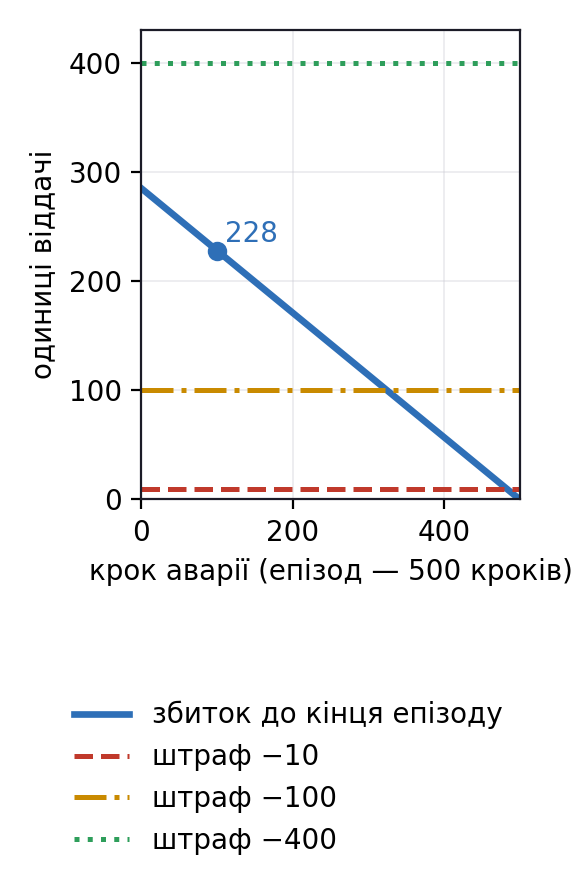
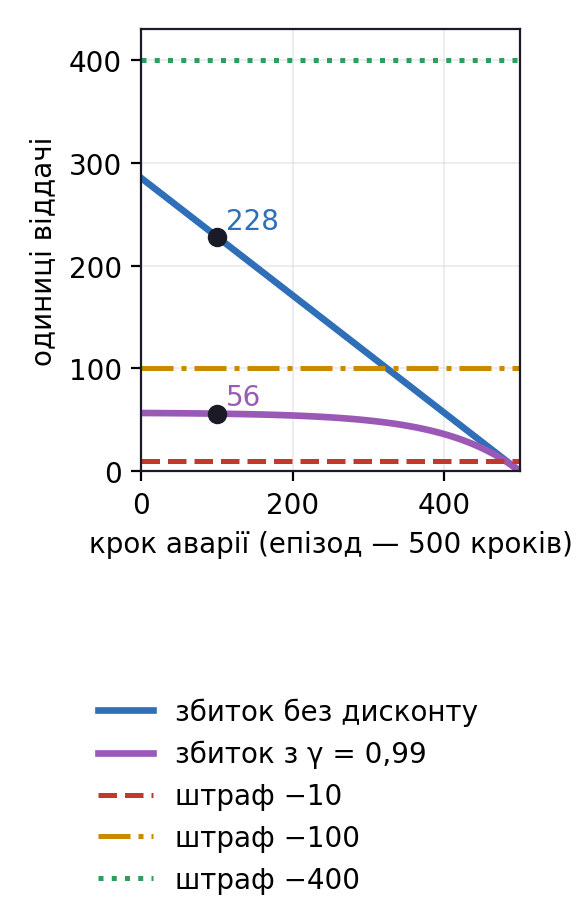
Лекція 07, другий круг: збиток за аварію з дисконтом, значення доданків у таблиці, обмеження симулятора, що крутити першим

diff --git a/lectures/07.md b/lectures/07.md
@@ -61,6 +61,8 @@ outline: [2, 3]
 | частота політики | 100 Гц у симуляторі, на борту обчислення мережі ≈ 0,8 мс |
 | алгоритм | PPO |
 
+Маси в лекції: 27 г — апарат без додаткових плат (текст Molchanov і модель CF2X у симуляторі), 29 г — паспорт Crazyflie 2.1, 33 г — апарат із платами й маркерами (табл. II Molchanov), 0,028 кг — номінал симулятора в табл. I. Той самий симулятор і постановку для рою взяли Batra та ін. (2021).
+
 Це **перший масштаб** лекції: справжній 3D-апарат. **Другий** — одновимірна модель висіння з модуля 05 (27 г, 50 Гц, епізод 8 с); на ній зроблено власні прогони. Окремо в частині 4 є **умовний приклад** підбору ваг винагороди — розрахунок, а не прогін. Щоразу буде сказано, про що йдеться.
 
 ## Частина 1 · Вибір алгоритму
@@ -134,7 +136,7 @@ $$\mathcal{H}(\pi) = -\sum_a \pi(a)\ln \pi(a)$$
 </Figure>
 
 
-PPO використовує кожен зібраний крок лише в одному оновленні й викидає: градієнт політики коректний на даних поточної політики. SAC зберігає до мільйона переходів і вчиться на них багаторазово, тож потребує менше взаємодії, але кожен крок навчання дорожчий.
+PPO використовує зібрані кроки лише в одному циклі оновлення — 10 проходів — і викидає їх: градієнт політики коректний на даних поточної політики. SAC зберігає до мільйона переходів і вчиться на них багаторазово, тож потребує менше взаємодії, але кожен крок навчання дорожчий.
 
 Для дрона в швидкому симуляторі досвід дешевий, і стабільність PPO за типових налаштувань важить більше за економію даних — тому PPO обрали і Molchanov, і Batra. SAC доречніший, коли кожна секунда польоту дорога.
 
@@ -150,11 +152,11 @@ PPO (*Proximal Policy Optimization*, [Schulman та ін., arXiv:1707.06347](htt
 </Figure>
 
 
-Числа на схемі — значення Stable-Baselines3 за замовчуванням. Далі — по одній формулі на кожен крок, з розрахунком на трьох справжніх кроках прогону PPO з модуля 05 (одновимірна модель висіння).
+Числа на схемі — значення Stable-Baselines3 за замовчуванням. **Порція** — 2048 кроків, зібраних між двома оновленнями. Далі — по одній формулі на кожен крок, з розрахунком на трьох кроках реального прогону PPO з модуля 05 (одновимірна модель висіння).
 
 ### $N$-крокова віддача: скільки кроків брати з досвіду
 
-Ціль для оцінки цінності стану $s_t$ бере $N$ справжніх винагород і далі покладається на критика:
+Ціль для оцінки цінності стану $s_t$ бере $N$ отриманих винагород і далі покладається на критика:
 
 $$G^{(N)}_t = \sum_{\tau=0}^{N-1}\gamma^\tau r_{t+\tau} + \gamma^N V(s_{t+N})$$
 
@@ -165,15 +167,15 @@ $$G^{(N)}_t = \sum_{\tau=0}^{N-1}\gamma^\tau r_{t+\tau} + \gamma^N V(s_{t+N})$$
 | $\gamma$ | дисконт, 0,99 |
 
 ::: info Розрахунок: три кроки прогону PPO
-Дано (модуль 05, порція 4 навчання): $r_0 = 0{,}0639$, $r_1 = 0{,}0654$, $r_2 = 0{,}0202$; $V(s_1) = 0{,}0430$, $V(s_2) = 0{,}0465$, $V(s_3) = 0{,}0299$.
+Дано (модуль 05, порція 4): $r_0 = 0{,}06387$, $r_1 = 0{,}06542$, $r_2 = 0{,}02018$; $V(s_1) = 0{,}04303$, $V(s_2) = 0{,}04653$, $V(s_3) = 0{,}02995$.
 
 | **$N$** | **Підстановка** | **Ціль** |
 |---|---|---|
-| 1 | $0{,}0639 + 0{,}99 \cdot 0{,}0430$ | 0,1065 |
-| 2 | $0{,}0639 + 0{,}99 \cdot 0{,}0654 + 0{,}99^2 \cdot 0{,}0465$ | 0,1742 |
-| 3 | ще $+\,0{,}99^2 \cdot 0{,}0202$, а критик — на $s_3$ | 0,1775 |
+| 1 | $0{,}06387 + 0{,}99 \cdot 0{,}04303$ | 0,1065 |
+| 2 | $0{,}06387 + 0{,}99 \cdot 0{,}06542 + 0{,}99^2 \cdot 0{,}04653$ | 0,1742 |
+| 3 | ще $+\,0{,}99^2 \cdot 0{,}02018$, а критик — на $s_3$ | 0,1775 |
 
-Що більше $N$, то більше в цілі справжніх винагород і менше — оцінки критика.
+Що більше $N$, то більше в цілі отриманих винагород і менше — оцінки критика.
 :::
 
 Мале $N$ дає малу дисперсію, але переносить у ціль помилку критика (зсув); $N$, що дорівнює всьому епізоду (Монте-Карло), — навпаки.
@@ -189,10 +191,14 @@ $$\hat A_t = \sum_{l \ge 0} (\gamma\lambda)^l\, \delta_{t+l}$$
 | **Позначення** | **Що це** |
 |---|---|
 | $\delta_t$ | помилка часової різниці: наскільки крок виявився кращим за прогноз критика |
-| $\lambda$ | ручка між однокроковою оцінкою ($\lambda = 0$) і Монте-Карло ($\lambda = 1$) |
+| $\lambda$ | параметр, що плавно зсуває оцінку від однокрокової ($\lambda = 0$) до Монте-Карло ($\lambda = 1$) |
 
 ::: info Розрахунок: перевага першого кроку за трьома δ
-Ті самі кроки: $\delta_0 = 0{,}0552$, $\delta_1 = 0{,}0684$, $\delta_2 = 0{,}0033$.
+Ті самі кроки й $V(s_0) = 0{,}05122$:
+
+$$\delta_0 = 0{,}06387 + 0{,}99 \cdot 0{,}04303 - 0{,}05122 = 0{,}05525$$
+
+так само $\delta_1 = 0{,}06845$, $\delta_2 = 0{,}00330$.
 
 | **$\lambda$** | **Ваги $1,\ \gamma\lambda,\ (\gamma\lambda)^2$** | **$\hat A_0$ за 3 кроки** |
 |---|---|---|
@@ -200,7 +206,7 @@ $$\hat A_t = \sum_{l \ge 0} (\gamma\lambda)^l\, \delta_{t+l}$$
 | 0,95 | 1, 0,9405, 0,8845 | 0,1225 |
 | 1 | 1, 0,99, 0,9801 | 0,1262 |
 
-У Stable-Baselines3 сума йде до кінця порції з 2048 кроків, тож справжня $\hat A_0$ того прогону — 0,79: внески далеких кроків накопичуються.
+У Stable-Baselines3 сума йде до кінця епізоду, а на межі порції обривається й замість решти бере оцінку критика. Тож фактична $\hat A_0$ того прогону — 0,79: внески далеких кроків накопичуються.
 :::
 
 У Stable-Baselines3 це `gae_lambda`, за замовчуванням 0,95.
@@ -234,7 +240,7 @@ $$\rho_t = \frac{\pi(a_t\mid s_t)}{\pi_{\text{old}}(a_t\mid s_t)}$$
 | 0,7, −2 | −1,4 | $0{,}8 \cdot (-2) = -1{,}6$ | −1,6 |
 | 1,1, +2 | +2,2 | +2,2 | +2,2 |
 
-Усередині коридору ціль звичайна; за ним подальший відхід від старої політики нічого не додає, а погіршення рахується повністю.
+Усередині коридору ціль звичайна; за ним подальший відхід від старої політики нічого не додає, а погіршення враховується повністю.
 :::
 
 Віджет обрізання — у [модулі 05](/lectures/05).
@@ -257,7 +263,7 @@ def target(n):
 
 print("ціль для N = 1, 2, 3:", "  ".join(f"{target(n):.4f}" for n in (1, 2, 3)))
 delta = r + GAMMA * V[1:] - V[:3]  # δ_t = r_t + γV(s_{t+1}) − V(s_t)
-print("δ₀, δ₁, δ₂:", "  ".join(f"{x:.4f}" for x in delta))
+print("δ₀, δ₁, δ₂:", "  ".join(f"{x:.5f}" for x in delta))
 gae = [sum((GAMMA * lam) ** k * delta[k] for k in range(3)) for lam in (0, 0.95, 1)]
 print("перевага за 3 кроки, λ = 0 / 0.95 / 1:", "  ".join(f"{x:.4f}" for x in gae))
 print(f"перевага першого кроку в самому прогоні: {d['k4_adv'][0]:.2f}")
@@ -270,7 +276,7 @@ for rho, adv in ((1.3, 2.0), (0.7, -2.0), (1.1, 2.0)):
 
 ```text:no-line-numbers
 ціль для N = 1, 2, 3: 0.1065  0.1742  0.1775
-δ₀, δ₁, δ₂: 0.0552  0.0684  0.0033
+δ₀, δ₁, δ₂: 0.05525  0.06845  0.00330
 перевага за 3 кроки, λ = 0 / 0.95 / 1: 0.0552  0.1225  0.1262
 перевага першого кроку в самому прогоні: 0.79
 ρ = 1.3, A = +2.0: без обрізання +2.6, ціль +2.4
@@ -305,7 +311,7 @@ $$\mathcal{H} = \tfrac12 \ln\!\big(2\pi e\,\sigma^2\big)$$
 
 ### Пастка стандартизації винагород
 
-Винагороди часто стандартизують — віднімають середнє й ділять на відхилення, щоб критику було легше. Але це може змінити саму задачу.
+Винагороди часто стандартизують — віднімають середнє й ділять на відхилення, щоб звести масштаб до одиниці. Але це може змінити саму задачу.
 
 Дві дії: «завершити» дає −1 і кінець епізоду; «жити далі» дає −0,1, і епізод закінчується з імовірністю 1 %, тобто в середньому через 100 кроків. Без стандартизації краще завершити: −1 проти −10.
 
@@ -321,6 +327,8 @@ $$\mathcal{H} = \tfrac12 \ln\!\big(2\pi e\,\sigma^2\big)$$
 :::
 
 Для дрона це означає: якщо винагорода складена лише зі штрафів, стандартизація може перетворити задачу «долетіти швидше» на «літати довше».
+
+У Stable-Baselines3 за замовчуванням стандартизують не винагороду, а перевагу в кожному міні-батчі (`normalize_advantage=True`), а обгортка `VecNormalize` ділить винагороду на відхилення без віднімання середнього. Пастка стосується саме нормалізації з відніманням середнього — її легко додати власним кодом.
 
 
 <CodeFold title="Ентропія двох дій і гаусової політики, стандартизація винагород" :lines="18" sec="0.1" check>
@@ -370,7 +378,7 @@ print(f"100 кроків «жити далі»: було {100 * -0.1:+.1f}, ст
 |---|---|---|---|
 | темп навчання | `learning_rate` | $3\cdot10^{-4}$ | крок оптимізатора |
 | кроків на збір | `n_steps` | 2048 | скільки досвіду між оновленнями |
-| міні-батч | `batch_size` | 64 | шматок даних на один крок градієнта |
+| міні-батч | `batch_size` | 64 | скільки кроків іде в один крок градієнта |
 | проходів | `n_epochs` | 10 | скільки разів перевикористати ті самі дані |
 | дисконт | `gamma` | 0,99 | горизонт планування |
 | GAE | `gae_lambda` | 0,95 | зсув проти дисперсії переваги |
@@ -403,11 +411,19 @@ model.learn(total_timesteps=1_000_000)
 </CodeFold>
 
 
-Головне правило порівняння: два алгоритми порівнюють лише за однакового бюджету на підбір гіперпараметрів.
+Що крутити першим для дрона:
+
+| **Симптом** | **Що змінити** |
+|---|---|
+| політика рано перестала досліджувати | `ent_coef` з 0 до 0,01 |
+| віддача стрибає або падає після оновлень | зменшити `learning_rate` |
+| епізод довший за порцію | збільшити `n_steps`: порція має вміщати кілька епізодів (у моделі висіння 400 кроків — п'ять на порцію) |
+
+Бюджет `total_timesteps` задають із запасом і стежать за кривою: модель висіння модуля 05 вийшла на плато після 102 тис. кроків із 307 200, а Molchanov та ін. навчали 3000 ітерацій по 40 траєкторій по 7 с, тобто $40 \cdot 7 \cdot 100 \cdot 3000 = 84$ млн кроків при 100 Гц (§VI). Два алгоритми порівнюють лише за однакового бюджету на підбір гіперпараметрів.
 
 ## Частина 3 · Спостереження і дія
 
-Перший масштаб — 3D-апарат. Molchanov та ін. подають на вхід політики 18 чисел (§V-B, «18-dimensional vector»); Batra та ін. (2021, §3.1) для кожного дрона рою використовують той самий кортеж $(p, v, R, \omega)$ і додають сусідів.
+Перший масштаб — 3D-апарат. Molchanov та ін. подають на вхід політики 18 чисел (§V-B, «18-dimensional vector»); Batra та ін. (2021, §3.1) для кожного дрона рою беруть ті самі чотири блоки й додають сусідів.
 
 
 <Figure src="/figs/own/mod07-observation.png" msrc="/figs/own/mod07-observation-m.png" alt="Що бачить дрон: стрілка до цілі — 3 числа положення відносно цілі, стрілка швидкості — 3 числа, осі корпусу — 9 чисел матриці повороту, дуга обертання — 3 числа кутової швидкості; разом 18.">
@@ -440,9 +456,9 @@ model.learn(total_timesteps=1_000_000)
 |---|---|---|
 | IMU на основній платі | кутові швидкості й прискорення | шум; нуль гіроскопа дрейфує |
 | [Flow deck v2](https://www.bitcraze.io/products/flow-deck-v2/) | відстань до підлоги й оптичний потік | далекомір до 4 м, підлога має бути з текстурою |
-| [Loco deck](https://www.bitcraze.io/documentation/hardware/loco_deck/loco_deck-datasheet.pdf) | відстані до радіомаяків UWB | ±10 см до 10 м |
+| [Loco deck](https://www.bitcraze.io/documentation/hardware/loco_deck/loco_deck-datasheet.pdf) | відстані до радіомаяків UWB (надширокосмугове радіо) | ±10 см до 10 м |
 
-Тому шум і затримка оцінки — частина задачі, яку політика мусить витримати. У Molchanov та ін. позицію давала система захоплення руху на 100 Гц (§VI).
+У Molchanov та ін. положення давала система захоплення руху на 100 Гц (§VI). Без неї той самий вектор дають бортові плати й фільтр Калмана — це постановка курсу, і тоді шум і затримка оцінки стають частиною задачі, яку політика мусить витримати.
 
 ### Три рівні керування
 
@@ -458,11 +474,11 @@ model.learn(total_timesteps=1_000_000)
 
 | **Рівень** | **Що видає політика** | **Хто виконує далі** | **Приклад** |
 |---|---|---|---|
-| SRT | 4 тяги моторів | ніхто: політика сама стабілізує апарат | Molchanov 2019, Batra 2021 |
-| CTBR | колективна тяга й 3 кутові швидкості | бортовий контур кутових швидкостей | Kaufmann 2022 |
-| LV | швидкість і швидкість рискання | повний стек керування | Kaufmann 2022 |
+| SRT (*single-rotor thrust*) | 4 тяги моторів | ніхто: політика сама стабілізує апарат | Molchanov 2019, Batra 2021 |
+| CTBR (*collective thrust and body rates*) | колективна тяга й 3 кутові швидкості | бортовий контур кутових швидкостей | Kaufmann 2022 |
+| LV (*linear velocity*) | швидкість і швидкість рискання | повний стек керування | Kaufmann 2022 |
 
-У Kaufmann та ін. CTBR найкраще переносився на реальний апарат; політику SRT на їхньому апараті запустити не вдалося через затримку системи близько 60 мс (розд. V-B). На Crazyflie Molchanov та ін. SRT працював: мережа рахувалася на борту за 0,8 мс. Вибір рівня залежить від затримок конкретного апарата.
+У Kaufmann та ін. CTBR найкраще переносився на реальний апарат; політику SRT на їхньому апараті запустити не вдалося через затримку всієї системи близько 60 мс (розд. V-B). У Molchanov та ін. SRT на Crazyflie працював; затримки свого контуру стаття не називає. Тож вирішує затримка всього контуру керування апарата, а не лише час обчислення мережі.
 
 ### Середовище Gymnasium для однієї задачі
 
@@ -524,32 +540,32 @@ $$r_t = 1 - \sum_{i=1}^{n} w_i\, f_i(s_t, a_t)$$
 | зусилля | 0,4 | 0,10 | 0,25 |
 | ривок | 0,2 | 0,05 | 0,25 |
 
-Вага — бажаний внесок, поділений на масштаб: позиція важить найбільше, хоча її вага не найбільша.
+Вага — бажаний внесок, поділений на масштаб: малий масштаб рискання (0,5 рад) дає йому вагу 0,40 — майже як у позиції.
 :::
 
-### Два режими польоту
+### Два стани: біля цілі й на старті
 
 Перевіряють ваги на двох станах: апарат майже в цілі й апарат щойно стартував далеко від неї.
 
 
-<Figure src="/figs/own/mod07-regimes.png" msrc="/figs/own/mod07-regimes-m.png" alt="Штраф кожного доданка винагороди в двох режимах. Майже в цілі всі штрафи малі, і винагорода +0,83; щойно після старту позиція дає штраф 1,0, швидкість 0,3, і винагорода −0,57.">
+<Figure src="/figs/own/mod07-regimes.png" msrc="/figs/own/mod07-regimes-m.png" alt="Штраф кожного доданка винагороди у двох станах. Майже в цілі всі штрафи малі, і винагорода +0,83; щойно після старту позиція дає штраф 1,0, швидкість 0,3, і винагорода −0,57.">
 
-Штраф кожного доданка винагороди в двох режимах. Майже в цілі всі штрафи малі, і винагорода +0,83; щойно після старту позиція дає штраф 1,0, швидкість 0,3, і винагорода −0,57.
+Штраф кожного доданка винагороди у двох станах. Майже в цілі всі штрафи малі, і винагорода +0,83; щойно після старту позиція дає штраф 1,0, швидкість 0,3, і винагорода −0,57.
 
 </Figure>
 
 
-::: info Розрахунок: винагорода в двох режимах
-Штраф доданка — вага × значення.
+::: info Розрахунок: винагорода в двох станах
+Штраф доданка — вага × значення. Значення — стан апарата в цю мить, а не масштаб калібрування.
 
-| **Доданок** | **Вага** | **Майже в цілі** | **Щойно стартував** |
-|---|---|---|---|
-| позиція | 0,50 | $0{,}50 \cdot 0{,}20 = 0{,}10$ | $0{,}50 \cdot 2{,}0 = 1{,}00$ |
-| швидкість | 0,30 | 0,03 | 0,30 |
-| рискання | 0,40 | 0,02 | 0,12 |
-| зусилля | 0,25 | 0,0125 | 0,10 |
-| ривок | 0,25 | 0,005 | 0,05 |
-| $r = 1 - \sum$ | | **+0,83** | **−0,57** |
+| **Доданок** | **Вага** | **Біля цілі** | **Штраф** | **На старті** | **Штраф** |
+|---|---|---|---|---|---|
+| позиція | 0,50 | 0,20 | 0,10 | 2,0 | 1,00 |
+| швидкість | 0,30 | 0,10 | 0,03 | 1,0 | 0,30 |
+| рискання | 0,40 | 0,05 | 0,02 | 0,3 | 0,12 |
+| зусилля | 0,25 | 0,05 | 0,0125 | 0,4 | 0,10 |
+| ривок | 0,25 | 0,02 | 0,005 | 0,2 | 0,05 |
+| $r = 1 - \sum$ | | | **+0,83** | | **−0,57** |
 
 Різниця 1,40 на крок — сигнал, який має бути помітним на тлі шуму між епізодами.
 :::
@@ -558,30 +574,32 @@ $$r_t = 1 - \sum_{i=1}^{n} w_i\, f_i(s_t, a_t)$$
 
 ### Штраф за аварію проти збитку
 
-Поки політика літає погано, кожен крок коштує −0,57. Якщо апарат розбився на кроці 100, решта епізоду не настане — і збиток, що набіг би до кінця, агент «зекономить».
+Поки політика літає погано, кожен крок коштує −0,57. Якщо апарат розбився на кроці 100, решта епізоду не настане — і збиток, що набіг би до кінця, агент «зекономить». Агент рахує цей збиток із тим самим дисконтом $\gamma = 0{,}99$, з яким навчається.
 
 
-<Figure src="/figs/own/mod07-crash.png" msrc="/figs/own/mod07-crash-m.png" alt="Збиток, який погана політика накопичить до кінця епізоду, спадає від 285 на першому кроці до нуля на кроці 500; при аварії на кроці 100 він дорівнює 228. Горизонтальні лінії штрафів −10 і −100 лежать нижче, −400 — вище.">
+<Figure src="/figs/own/mod07-crash.png" msrc="/figs/own/mod07-crash-m.png" alt="Збиток, який погана політика накопичить до кінця епізоду. Без дисконту він спадає від 285 до нуля й на кроці 100 дорівнює 228; з γ = 0,99 майже сталий — 56 на кроці 100. Штраф −10 нижчий за обидві криві, −100 — лише за недисконтовану, −400 — вищий за обидві.">
 
-Збиток, який погана політика накопичить до кінця епізоду, спадає від 285 на першому кроці до нуля на кроці 500; при аварії на кроці 100 він дорівнює 228. Горизонтальні лінії штрафів −10 і −100 лежать нижче, −400 — вище.
+Збиток, який погана політика накопичить до кінця епізоду. Без дисконту він спадає від 285 до нуля й на кроці 100 дорівнює 228; з γ = 0,99 майже сталий — 56 на кроці 100. Штраф −10 нижчий за обидві криві, −100 — лише за недисконтовану, −400 — вищий за обидві.
 
 </Figure>
 
 
 ::: info Розрахунок: аварія на кроці 100 з 500
-Збиток за решту епізоду: $(500 - 100) \cdot 0{,}57 = 228$.
+Без дисконту збиток за решту епізоду: $(500 - 100) \cdot 0{,}57 = 228$.
 
-| **Штраф за аварію** | **Порівняно з 228** | **Падати** |
+З дисконтом $\gamma = 0{,}99$: $0{,}57 \cdot \dfrac{1 - 0{,}99^{400}}{1 - 0{,}99} \approx 56$.
+
+| **Штраф** | **Проти 228 ($\gamma = 1$)** | **Проти 56 ($\gamma = 0{,}99$)** |
 |---|---|---|
-| −10 | менший | вигідно |
-| −100 | менший | вигідно |
-| −400 | більший | невигідно |
+| −10 | падати вигідно | падати вигідно |
+| −100 | падати вигідно | невигідно |
+| −400 | невигідно | невигідно |
 
-Штраф звіряють не з винагородою одного кроку, а зі збитком за решту епізоду.
+З $\gamma = 0{,}99$ далеке майбутнє важить мало: 400 кроків «коштують» як приблизно 98 недисконтованих. Штраф звіряють зі збитком, порахованим із тим самим дисконтом, що й навчання.
 :::
 
 
-<CodeFold title="Калібрування ваг, винагорода у двох режимах і штраф за аварію" :lines="21" sec="0.1" check>
+<CodeFold title="Калібрування ваг, винагорода у двох режимах і штраф за аварію" :lines="24" sec="0.1" check>
 
 ```python
 import numpy as np
@@ -602,9 +620,12 @@ print("ваги:", "  ".join(f"{k} {v:.2f}" for k, v in zip(TERMS, w, strict=Tru
 print(f"r майже в цілі = {r_near:+.2f}, r щойно стартував = {r_start:+.2f}")
 STEPS, CRASH = 500, 100  # умовна задача: 500 кроків при 50 Гц, аварія на кроці 100
 debt = -(STEPS - CRASH) * r_start  # збиток, що набіжить до кінця епізоду
+disc = -r_start * (1 - 0.99 ** (STEPS - CRASH)) / (1 - 0.99)  # те саме з γ = 0.99
+print(f"збиток за решту епізоду: без дисконту {debt:.0f}, з γ = 0.99 {disc:.0f}")
 for pen in (10, 100, 400):
-    verdict = "вигідно" if pen < debt else "невигідно"
-    print(f"штраф −{pen} проти збитку {debt:.0f}: падати {verdict}")
+    v1 = "вигідно" if pen < debt else "невигідно"
+    v2 = "вигідно" if pen < disc else "невигідно"
+    print(f"штраф −{pen}: падати без дисконту {v1}, з γ = 0.99 {v2}")
 ```
 
 <div class="cf__out">
@@ -612,20 +633,21 @@ for pen in (10, 100, 400):
 ```text:no-line-numbers
 ваги: позиція 0.50  швидкість 0.30  рискання 0.40  зусилля 0.25  ривок 0.25
 r майже в цілі = +0.83, r щойно стартував = -0.57
-штраф −10 проти збитку 228: падати вигідно
-штраф −100 проти збитку 228: падати вигідно
-штраф −400 проти збитку 228: падати невигідно
+збиток за решту епізоду: без дисконту 228, з γ = 0.99 56
+штраф −10: падати без дисконту вигідно, з γ = 0.99 вигідно
+штраф −100: падати без дисконту вигідно, з γ = 0.99 невигідно
+штраф −400: падати без дисконту невигідно, з γ = 0.99 невигідно
 ```
 
 </div>
 
-*На що дивитися: ваги 0,50 / 0,30 / 0,40 / 0,25 / 0,25, винагороди +0,83 і −0,57, а падати невигідно лише при штрафі −400.*
+*На що дивитися: ваги 0,50 / 0,30 / 0,40 / 0,25 / 0,25, винагороди +0,83 і −0,57; збиток 228 без дисконту і 56 з γ = 0,99, тож штраф −100 перевертає висновок лише з дисконтом.*
 
 </CodeFold>
 
 ### Та сама пастка в даних: старт далеко від цілі
 
-Другий масштаб, справжній прогін модуля 05: модель висіння, PPO, 5 зерен, старт на висоті 0,5–1,5 м, бонус за життя 0,1 і без штрафу за аварію.
+Другий масштаб, реальний прогін модуля 05: модель висіння, PPO, 5 зерен, старт на висоті 0,5–1,5 м, бонус за життя 0,1 і без штрафу за аварію.
 
 
 <Figure src="/figs/own/mod07-far-start.png" msrc="/figs/own/mod07-far-start-m.png" alt="Віддача за секунду PPO зі стартом далеко від цілі на моделі висіння, 5 зерен: від 50 до 200 тисяч кроків усі зерна тримаються біля −40, як за нульової тяги −40,1, і лише наприкінці три зерна піднімаються вище.">
@@ -635,9 +657,15 @@ r майже в цілі = +0.83, r щойно стартував = -0.57
 </Figure>
 
 
-Приблизно від 50 до 200 тис. кроків усі п'ять зерен падають за 0,4 с із віддачею близько −40 за секунду. Стільки ж дає нульова тяга: на тих самих тестових стартах вимкнені мотори дають −40,1 за секунду. До кінця бюджету з пастки виходять лише три зерна з п'яти.
+Приблизно від 50 до 200 тис. кроків усі п'ять зерен падають за 0,4 с — так само, як із вимкненими моторами. До кінця бюджету з пастки виходять лише три зерна з п'яти.
 
-Це не оптимум задачі: простий ПД-регулятор на тих самих стартах тримає повні 8 с і набирає близько +30 за епізод. Це пастка на шляху навчання — та сама, що в розрахунку вище: поки політика літає погано, кожна секунда далеко від цілі коштує більше, ніж падіння.
+| **Політика на тих самих тестових стартах** | **Віддача за секунду** | **Політ** |
+|---|---|---|
+| PPO в пастці, 50–200 тис. кроків | близько −40 | 0,4 с |
+| нульова тяга | −40,1 | 0,41 с |
+| ПД-регулятор із модуля 05 | близько +3,75 (+30 за епізод) | повні 8 с |
+
+Це не оптимум задачі, а пастка на шляху навчання — та сама, що в розрахунку вище: поки політика літає погано, кожна секунда далеко від цілі коштує більше, ніж падіння.
 
 ## Частина 5 · Від симулятора до польоту
 
@@ -651,7 +679,16 @@ r майже в цілі = +0.83, r щойно стартував = -0.57
 </Figure>
 
 
-Розрив між симуляцією й польотом (*sim-to-real gap*) — головне обмеження всієї галузі: більшість робіт, зібраних в огляді Azar та ін. ([2021](https://doi.org/10.3390/electronics10090999), розд. 7), перевірені лише в симуляції. Далі — що показали ті, хто літав, і як розрив зменшують.
+Розрив між симуляцією й польотом (*sim-to-real gap*) — головне обмеження всієї галузі: більшість робіт, зібраних в огляді Azar та ін. ([2021](https://doi.org/10.3390/electronics10090999), розд. 7), перевірені лише в симуляції. Що симулятор спрощує, видно і в самих джерелах:
+
+| **Що спрощено** | **Приклад із джерел** |
+|---|---|
+| погода: вітер, дощ, пил | Azar та ін., розд. 7: здебільшого поза моделями |
+| затримка моторів | Molchanov та ін.: стала часу 0,15 с, рандомізують 0,1–0,2 с |
+| шум сенсорів | Molchanov та ін.: параметри оцінено грубо, за записом апарата на землі (§IV-D) |
+| затримка всього контуру | Kaufmann та ін.: ≈ 60 мс зірвали політику SRT на реальному апараті |
+
+Далі — що показали ті, хто літав, і як розрив зменшують.
 
 ### Що показали досліди
 
@@ -682,7 +719,7 @@ r майже в цілі = +0.83, r щойно стартував = -0.57
 
 | **Параметр** | **Номінал** | **Повна рандомізація** |
 |---|---|---|
-| маса | 0,028 кг | до 5 кг |
+| маса | 0,028 кг | ≤ 5 кг (задано лише верхню межу) |
 | ширина корпусу | 0,065 м | рівномірно 0,05–0,2 м |
 | стала часу мотора | 0,15 с | рівномірно 0,1–0,2 с |
 | тяга / вага | 1,9 | рівномірно 1,8–2,5 |
@@ -731,7 +768,7 @@ print("зерно 1 при номіналі:", "  ".join(f"{grid[k, 1, 3]:+.2f}"
 
 </div>
 
-*На що дивитися: при номіналі 4,71 і 4,70, на 1,4 номіналу 3,10 проти 4,17.*
+*На що дивитися: при номіналі медіани однакові, а поза діапазоном навчання рандомізована політика тримається вище.*
 
 </CodeFold>
 
@@ -752,20 +789,20 @@ print("зерно 1 при номіналі:", "  ".join(f"{grid[k, 1, 3]:+.2f}"
 ### Висновки
 
 - Тип дій вирішує першим: неперервні тяги й швидкості — PPO, DDPG, TD3 або SAC; PPO обирають, коли симулятор швидкий, SAC — коли досвід дорогий.
-- PPO — цикл «зібрати 2048 кроків → GAE → 10 епох з обрізанням»; кожну формулу видно на трьох кроках справжнього прогону.
+- PPO — цикл «зібрати 2048 кроків → GAE → 10 епох з обрізанням»; кожну формулу видно на трьох кроках реального прогону.
 - Ентропійний бонус тримає дослідження; стандартизація винагород може поміняти найкращу дію.
 - Вхід — 18 чисел, вихід — рівень керування, обраний з урахуванням затримок апарата: 4 тяги на Crazyflie, CTBR там, де затримка велика.
-- Штраф за аварію звіряють зі збитком за решту епізоду: −10 проти 228 навчає падати.
+- Штраф за аварію звіряють зі збитком за решту епізоду, порахованим із тим самим дисконтом: −10 менший і за 228 без дисконту, і за 56 з γ = 0,99 — такий штраф навчає падати.
 - Рандомізація маси ±20 % не погіршила номінал і на масі 1,4 номіналу дала 4,17 проти 3,10.
 
 
-<Figure src="/figs/own/mod07-map-done.png" msrc="/figs/own/mod07-map-done-m.png" alt="Та сама карта лекції 07 з головним числом кожної теми: 18 чисел на вході й 4 тяги на виході при 100 Гц; неперервні дії — PPO або SAC; λ = 0,95 і ε = 0,2; n_steps = 2048 і 10 епох; 3 + 3 + 9 + 3 = 18; штраф −10 менший за збиток 228; CTBR переноситься найкраще; на масі 1,4 номіналу медіана 4,17 проти 3,10.">
+<Figure src="/figs/own/mod07-map-done.png" msrc="/figs/own/mod07-map-done-m.png" alt="Та сама карта лекції 07 з головним числом кожної теми: 18 чисел на вході й 4 тяги на виході при 100 Гц; неперервні дії — PPO або SAC; λ = 0,95 і ε = 0,2; n_steps = 2048 і 10 епох; 3 + 3 + 9 + 3 = 18; штраф −10 менший за збиток 56 при γ = 0,99; CTBR переноситься найкраще; на масі 1,4 номіналу медіана 4,17 проти 3,10.">
 
-Та сама карта лекції 07 з головним числом кожної теми: 18 чисел на вході й 4 тяги на виході при 100 Гц; неперервні дії — PPO або SAC; λ = 0,95 і ε = 0,2; n_steps = 2048 і 10 епох; 3 + 3 + 9 + 3 = 18; штраф −10 менший за збиток 228; CTBR переноситься найкраще; на масі 1,4 номіналу медіана 4,17 проти 3,10.
+Та сама карта лекції 07 з головним числом кожної теми: 18 чисел на вході й 4 тяги на виході при 100 Гц; неперервні дії — PPO або SAC; λ = 0,95 і ε = 0,2; n_steps = 2048 і 10 епох; 3 + 3 + 9 + 3 = 18; штраф −10 менший за збиток 56 при γ = 0,99; CTBR переноситься найкраще; на масі 1,4 номіналу медіана 4,17 проти 3,10.
 
 </Figure>
 
-### Перехід до Модуля 08
+### Перехід до модуля 08
 
 Модуль 07 працював з одним апаратом. Batra та ін. уже показали рій, але ціною мільярда кроків навчання на кожну політику.
 
